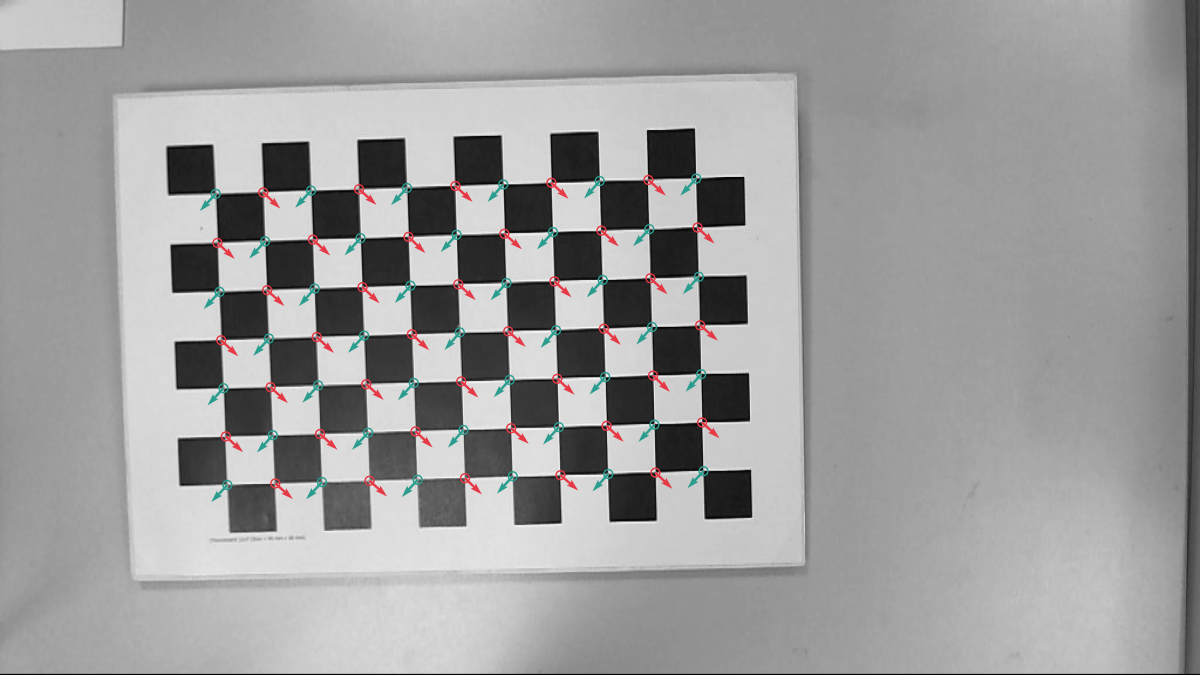
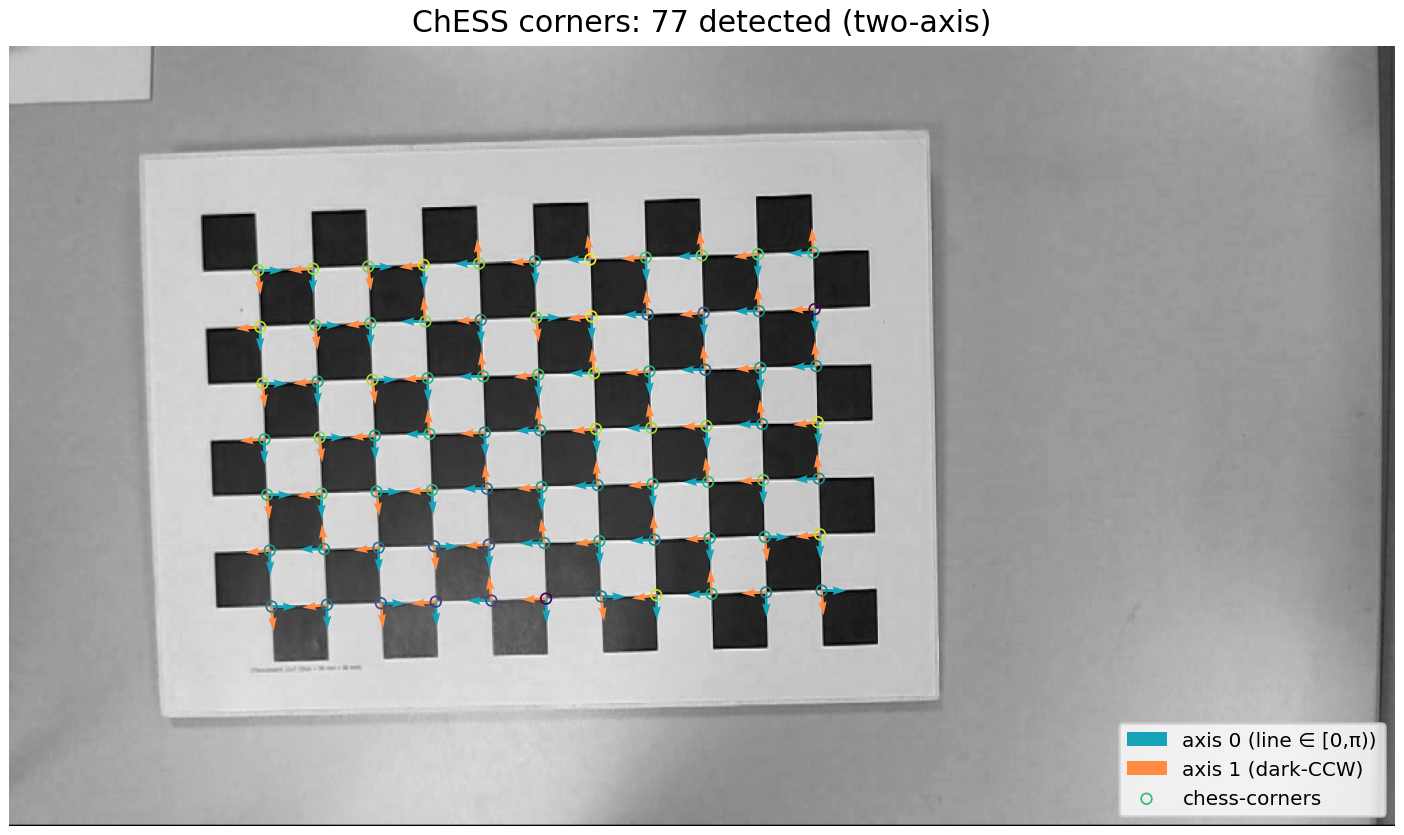
chess blog updated

diff --git a/content/blog/01-chesscorners.md b/content/blog/01-chesscorners.md
@@ -1,11 +1,12 @@
 ---
 title: "ChESS Corners Detector"
 date: 2026-04-15
+modified: 2026-05-01
 summary: "A chessboard-specific detector, from sampling geometry to a practical multiscale implementation."
 tags: ["feature-detection"]
 author: "Vitaly Vorobyev"
 repoLinks: ["https://github.com/VitalyVorobyev/chess-corners-rs"]
-relatedAlgorithms: ["chess-corners", "harris-corner-detector", "shi-tomasi-corner-detector", "fast-corner-detector"]
+relatedAlgorithms: ["chess-corners", "harris-corner-detector", "shi-tomasi-corner-detector", "fast-corner-detector", "duda-radon-corners"]
 relatedDemos: ["chess-response"]
 difficulty: intermediate
 ---
@@ -18,7 +19,7 @@ The first question was simple: how should one detect chessboard corners?
 
 Classical detectors such as [Harris](/algorithms/harris-corner-detector), [Shi-Tomasi](/algorithms/shi-tomasi-corner-detector), or [FAST](/algorithms/fast-corner-detector) are designed to react to corner-like structures in general. That is exactly why they are broadly useful, and also why they are not ideal here. A chessboard corner is more specific than a generic corner: locally, it forms an X-junction with an alternating black-white arrangement. Since this structure is known in advance, it is better to encode it directly in the detector.
 
-(OpenCV’s chessboard detector follows a different route: it starts from segmenting black squares and then derives corners from the recovered geometry. That works well, but it couples the problem to global board structure and requires the whole pattern to be visible, which is not acceptable in my case.)
+(The old OpenCV `findChessboardCorners` chessboard detector follows a different route: it starts from segmenting black squares and then derives corners from the recovered geometry. That works well, but couples the problem to the global board structure. The newer `findChessboardCornersSB` detector is based on [the Duda-Frese local X-junction detector](/algorithms/duda-radon-corners), which is a solid alternative to the approach we discuss here. Both detectors expect the full requested pattern to be visible, which is not acceptyble in my case.)
 
 Bennett and Lasenby [proposed](https://arxiv.org/abs/1301.5491) an elegant, robust, and efficient detector, ChESS (Chess-board Extraction by Subtraction and Summation), designed specifically for chessboard-like X-junctions. In my view, this idea deserves more attention in the vision community. In this post, we will look at ChESS in some detail, closely following the original paper. By the end, you should have a clear picture of how [my implementation of ChESS](https://github.com/VitalyVorobyev/chess-corners-rs) works.
 
@@ -132,29 +133,21 @@ where the sums run over all $(x, y)$ in the refinement window, and $w(x,y)$ is t
 
 In my implementation, I use several classical subpixel refinement methods, as well as a CNN-based refiner. That part deserves a separate discussion, so I will return to it in another post.
 
-# 4. Corner orientation
+# 4. Corner orientations
 
 The original paper also discusses corner orientation, but in a quantized form: it assigns each detected corner to one of eight orientation bins.
 
-In my implementation, I instead compute a continuous orientation as an additional descriptor.
+Under perspective projection, the two board directions that meet at a chessboard corner do not generally remain perpendicular in the image. I use an additional descriptor to estimate both orientations from the image.
 
-This is done after detection and subpixel refinement. For each corner, the original grayscale image is sampled on a 16-point ring around the refined subpixel location, using bilinear interpolation. The 16 sampled values form a signal on the ring; subtracting their mean removes the constant offset and leaves the angular variation that carries the orientation information.
-
-The idea is similar to a Fourier transform: the ring signal is decomposed into repeating angular patterns. For a chessboard corner, the relevant pattern repeats twice during one full turn around the ring. Its phase gives the local corner orientation.
-
-This leads to
+The descriptor is computed after detection and subpixel refinement. For each corner, the original grayscale image is sampled on a 16-point ring around the refined location, using bilinear interpolation. The sampled ring is then fitted with a two-axis intensity model:
 
 $$
-M = \sum_i (s_i - \bar{s}) e^{j 2 \phi_i},
-\qquad
-\theta = \frac{1}{2}\operatorname{atan2}(\operatorname{Im} M, \operatorname{Re} M).
+I(\phi) = \mu + A \cdot \tanh(\beta \sin(\phi - \theta_1)) \cdot \tanh(\beta \sin(\phi - \theta_2)).
 $$
 
-Here $s_i$ are the ring samples, $\bar{s}$ is their mean, and $\phi_i$ is the angle of the $i$-th sample on the ring. The complex value $M$ tells us how strongly this twice-per-turn pattern is present and at which angle it is aligned.
+Here $\theta_1$ and $\theta_2$ are the two local grid directions, $\mu$ is the ring mean, and $A$ is the fitted bright-dark contrast. The two angles are not constrained to be orthogonal.
 
-The orientation is defined modulo $\pi$, since reversing the direction gives the same line.
-
-This orientation becomes useful later when reconstructing board structure and filtering out geometrically inconsistent detections.
+The measured orientations become useful later when reconstructing board structure and filtering out geometrically inconsistent detections.
 
 # 5. ChESS in Rust
 
@@ -199,7 +192,7 @@ The image below shows an example input used for benchmarking:
 
 ![Example 1024 by 576 chessboard image used for benchmarking](./images/01-chess/mid_chess.png)
 
-One notable property of this detector is its speed. Detecting features in the image above ($1024 \times 576$ pixels) takes about 1.2 ms on my MacBook Pro with an M4 chip, with the rayon and simd features enabled. On the same image, OpenCV’s pixel-precise Harris detector takes about 3.9 ms, while `findChessboardCornersSB` takes about 115 ms.
+One notable property of this detector is its speed. Detecting corners in the image above ($1024 \times 576$ pixels) takes about 1.2 ms on my MacBook Pro with an M4 chip, with parallel processing (rayon) and SIMD optimizations enabled. On the same image, OpenCV’s pixel-precise Harris detector takes about 3.9 ms, while `findChessboardCornersSB` takes about 115 ms.
 
 The last comparison is only partial, because `findChessboardCornersSB` is a full chessboard detector, while ChESS here covers only the corner-detection stage. A full chessboard detector built on top of ChESS takes less than 4 ms on the same image. I will return to that in a future post. The implementation is available in [calib-targets-rs](https://github.com/VitalyVorobyev/calib-targets-rs).
 